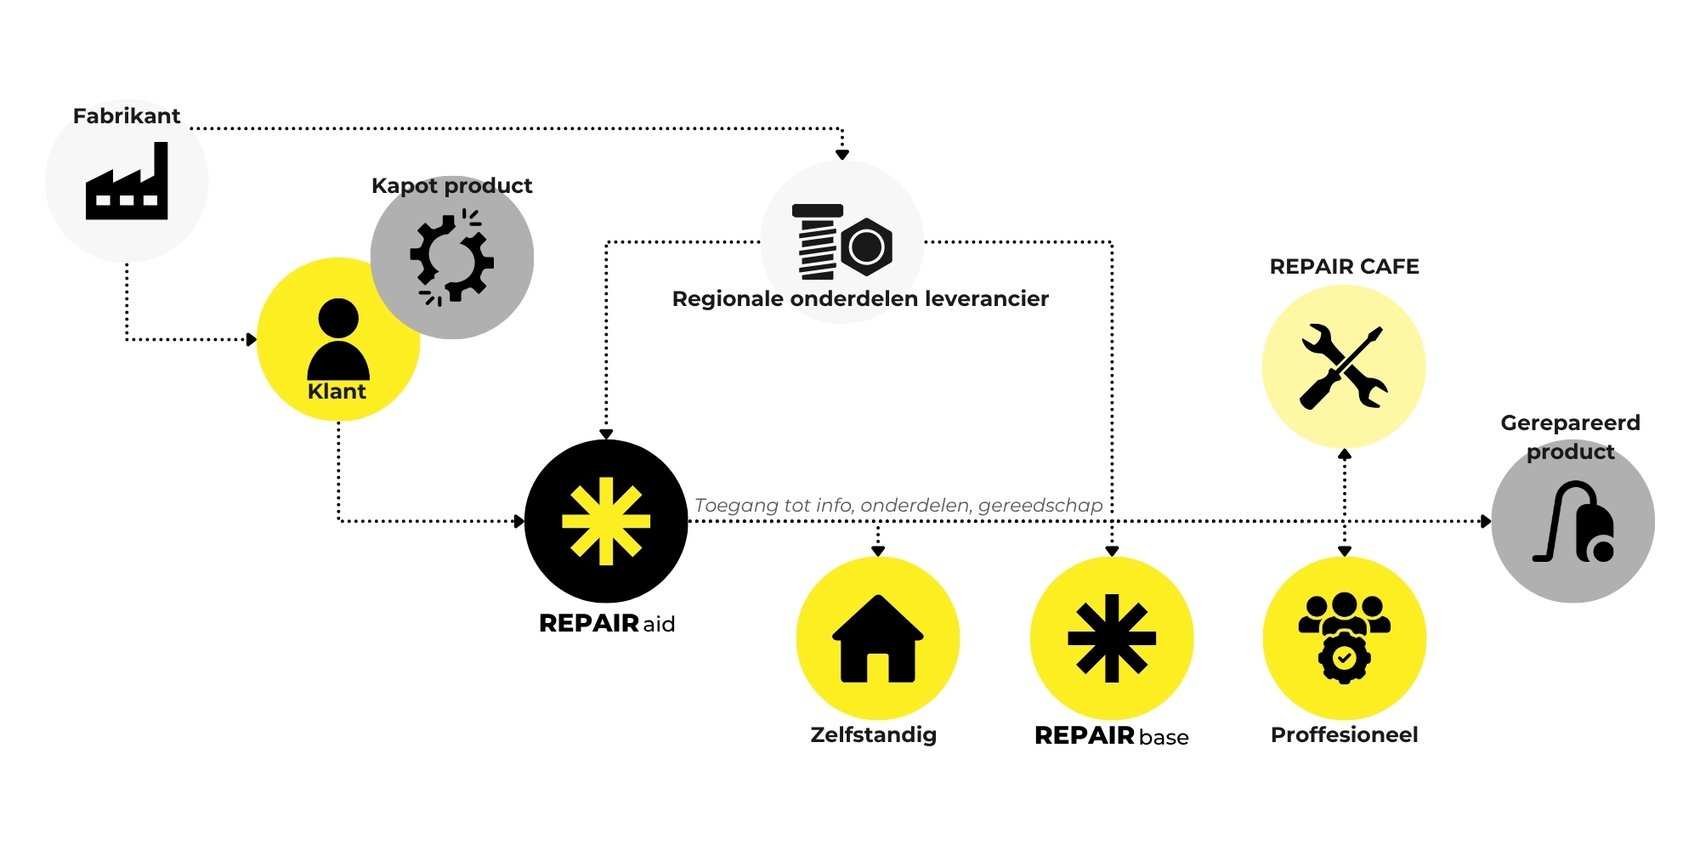
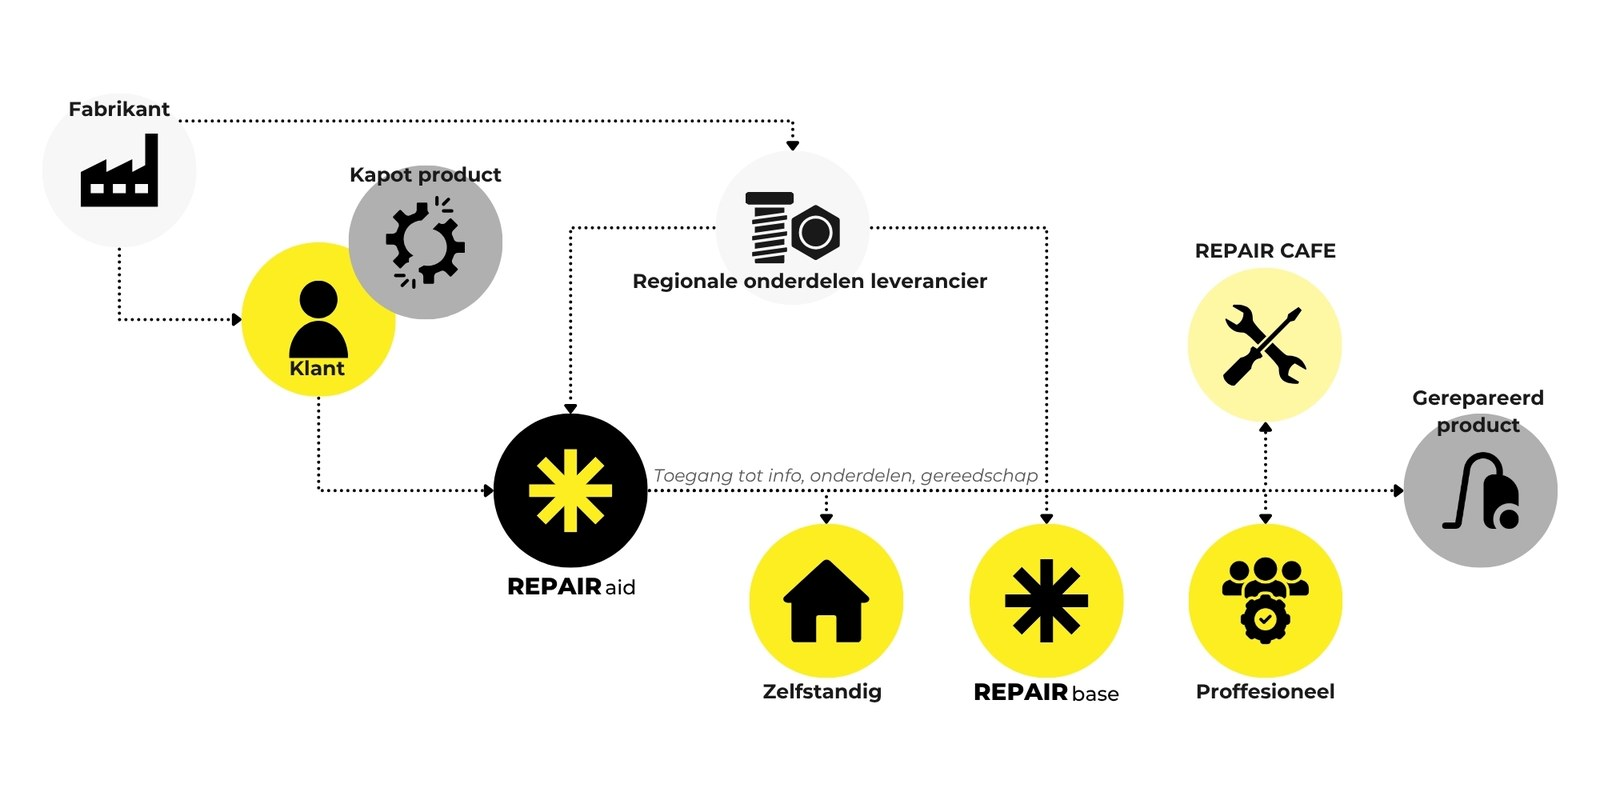
Fix PDF deck: full images, diagram on p18, no overlapping watermarks
- All images use object-fit:contain (no cropping)
- Page 3 and 4 use different photos
- Remove oversized project-number watermarks that overlapped content
- Page 18 diagram now has explicit height so it renders in print

Changed region(s): [[0.7812, 0.7188, 0.8125, 0.75]]

diff --git a/portfolio-pdf.html b/portfolio-pdf.html
@@ -44,8 +44,8 @@ em{font-style:normal;font-weight:600}
 .col{display:flex;flex-direction:column}
 .center{flex:1;display:flex;flex-direction:column;justify-content:center}
 .spread{flex:1;display:flex;flex-direction:column;justify-content:space-between}
-figure{overflow:hidden;background:var(--paper)}
-figure img{width:100%;height:100%;object-fit:cover}
+figure{overflow:hidden;background:#fff}
+figure img{width:100%;height:100%;object-fit:contain}
 .cap{font-family:var(--mono);font-size:7.5pt;color:var(--faint);margin-top:6px;text-transform:uppercase;letter-spacing:.04em}
 
 /* cover */
@@ -81,7 +81,7 @@ figure img{width:100%;height:100%;object-fit:cover}
 
 /* project chrome */
 .ptitle{position:relative}
-.ptitle .pnum{font-family:var(--display);font-weight:900;font-size:230pt;line-height:.7;letter-spacing:-.04em;color:var(--accent);opacity:.12;position:absolute;right:.4in;top:.1in}
+.ptitle .pnum{display:none}
 .ptag{display:inline-block;background:var(--accent);color:var(--on-accent);font-family:var(--display);font-weight:600;font-size:12pt;padding:5px 12px;margin-top:14px}
 .stat-row{display:flex;gap:.7in;margin-top:.1in}
 .stat b{font-family:var(--display);font-weight:900;font-size:46pt;letter-spacing:-.03em;line-height:.9;display:block;color:var(--accent)}
@@ -143,7 +143,7 @@ figure img{width:100%;height:100%;object-fit:cover}
         <p class="body" style="margin-top:.14in;max-width:40ch">I like working where technology, user behaviour and circular systems meet, and I am motivated by projects that make a real difference. Curious, collaborative and driven by impact rather than aesthetics alone.</p>
       </div>
       <div class="col" style="flex:.8">
-        <figure style="flex:1"><img src="assets/img/jorre_13.jpg" alt="Portrait of Jorre Vrambout" /></figure>
+        <figure style="flex:1"><img src="assets/img/jorre_14.jpg" alt="Portrait of Jorre Vrambout" /></figure>
         <div style="display:flex;gap:.4in;margin-top:14px">
           <div><div class="kicker">Based in</div><b style="font-family:var(--display)">Antwerp, BE</b></div>
           <div><div class="kicker">Born</div><b style="font-family:var(--display)">07.09.2003</b></div>
@@ -177,7 +177,7 @@ figure img{width:100%;height:100%;object-fit:cover}
           <li><span>French</span><span class="dots"><i class="on"></i><i class="on"></i><i class="on"></i><i></i><i></i></span></li>
         </ul>
       </div>
-      <figure class="col" style="flex:.75"><img src="assets/img/jorre_06.jpg" alt="Jorre prototyping" /></figure>
+      <figure class="col" style="flex:.75"><img src="assets/img/jorre_02.jpg" alt="Jorre at work in the studio" /></figure>
     </div>
     <div class="ftr"><span>[email redacted]</span><span>Skills</span><span>04</span></div>
   </div>
@@ -430,7 +430,7 @@ figure img{width:100%;height:100%;object-fit:cover}
     <div class="col" style="margin-top:.28in;flex:1">
       <h3 class="h3" style="margin-bottom:.1in">Three routes to a repair</h3>
       <p class="body" style="max-width:70ch">Repair Aid distinguishes independent repair at home, guided repair in a Repair Base and professional repair, then suggests the most feasible option based on the situation, the complexity of the fault and the expected effort.</p>
-      <figure style="flex:1;margin-top:.2in;background:#fff"><img src="assets/img/repair_diagram.jpg" alt="The Repair Aid ecosystem" style="object-fit:contain" /></figure>
+      <figure style="height:3.95in;margin-top:.18in"><img src="assets/img/repair_diagram.jpg" alt="The Repair Aid ecosystem, from home repair to Repair Base to professional" /></figure>
     </div>
     <div class="ftr"><span>[email redacted]</span><span>04 — Repair Aid</span><span>18</span></div>
   </div>